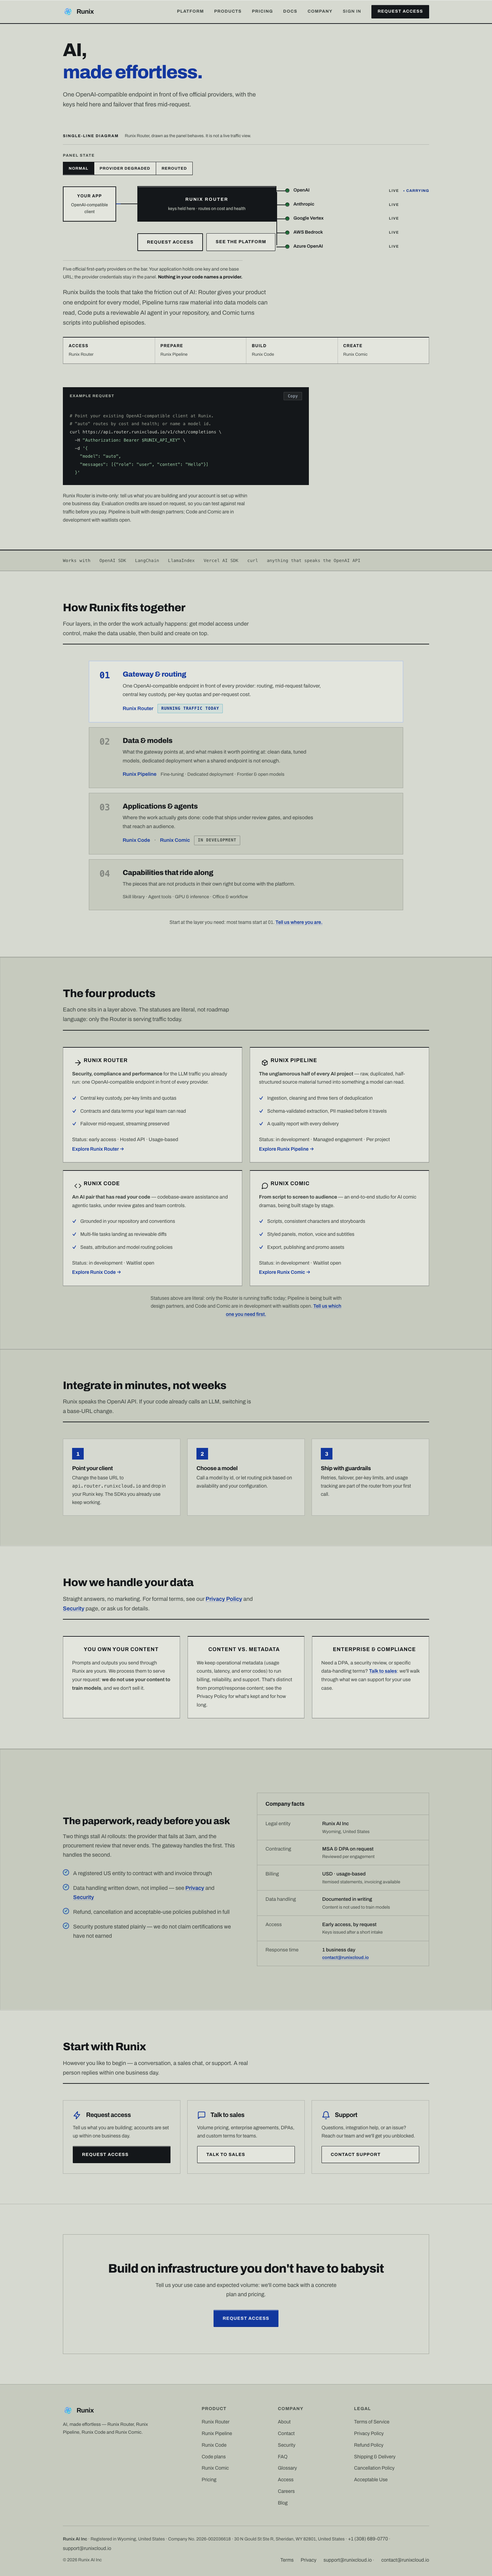
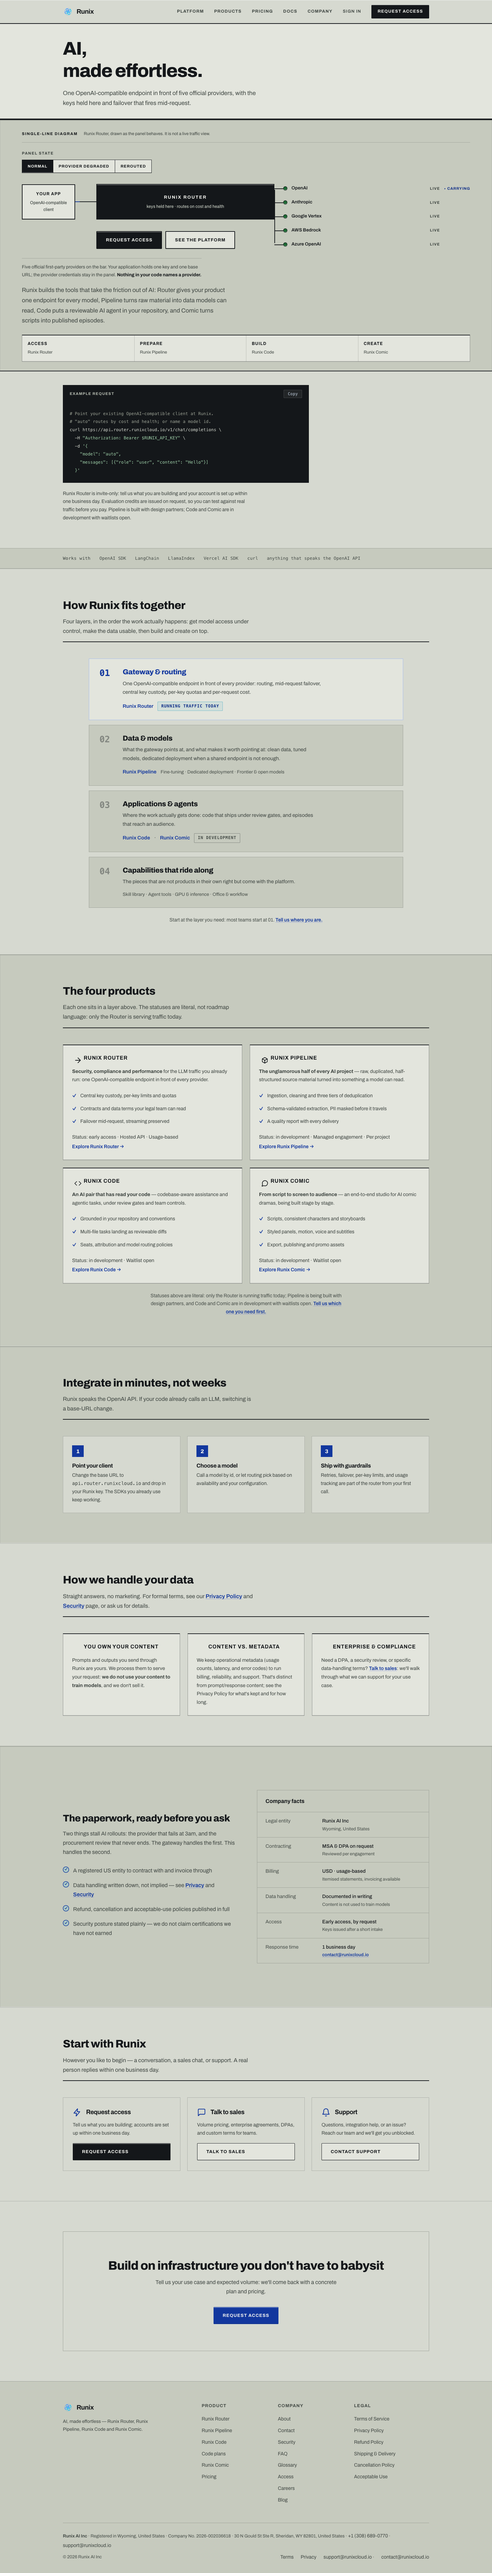
fix: the hero overlay was painting over the panel rail
The rail and the recessed bay had their backgrounds and their engraved
edges in the stylesheet, and neither reached the screen: .hero::before
is absolutely positioned with inset 0, so it painted above every static
child of the hero, including the rail. The overlay predates the rail and
its job (a flat ground and a bottom bar) is now done by the rail and the
bay themselves, so it is gone. Verified by sampling painted pixels rather
than computed style, which is what hid this: computed style reported the
rail's own background all along.

diff --git a/assets/style.css b/assets/style.css
@@ -125,7 +125,7 @@ h1 + .badge, h3 + .badge { margin: 14px 0 0; }
    word through a stop that measures 3.4:1 at the cyan end. One solid indigo
    at 5.59:1 carries the same emphasis and survives selection, high-contrast
    mode, and print, none of which render clipped backgrounds. */
-.grad-text { color: var(--indigo); }
+.grad-text { color: var(--ink); }
 
 /* ---------- Header ---------- */
 .site-header {
@@ -164,14 +164,6 @@ h1 + .badge, h3 + .badge { margin: 14px 0 0; }
 
 /* ---------- Hero ---------- */
 .hero { position: relative; padding: 110px 0 90px; overflow: hidden; }
-.hero::before {
-  content: ""; position: absolute; inset: 0; pointer-events: none;
-  /* The panel's own face: a flat enamel ground, a hairline of light along the
-     top rail, and the machined edge below it. */
-  background: var(--enamel);
-  border-bottom: var(--bar) solid var(--engrave);
-  box-shadow: var(--bevel);
-}
 .hero .container { position: relative; }
 .hero h1 { font-size: 58px; font-weight: 800; max-width: 780px; }
 .hero .sub { margin-top: 18px; font-size: 17.5px; color: var(--ink-2); max-width: 620px; }
@@ -701,7 +693,7 @@ main .doc-next a { color: var(--indigo); font-weight: 500; }
   background: var(--bg-alt); border: 1px solid var(--line); border-radius: 0; padding: 1px 6px;
 }
 .article pre {
-  background: #05080f; color: #c9d1d9; border: 1px solid var(--line); border-radius: 0; padding: 18px 20px;
+  background: var(--engrave); color: #d5d9cf; border: 1px solid var(--line); border-radius: 0; padding: 18px 20px;
   overflow-x: auto; font-family: "SF Mono", Menlo, Consolas, monospace;
   font-size: 13.5px; line-height: 1.8; margin: 18px 0;
 }
@@ -845,7 +837,7 @@ a:focus-visible, button:focus-visible, .btn:focus-visible {
   background: var(--line); border: 1px solid var(--line-2); border-top: none;
   border-radius: 0 0 var(--radius) var(--radius); overflow: hidden;
 }
-.hero-metrics div { background: #05080f; padding: 13px 16px; }
+.hero-metrics div { background: var(--engrave); padding: 13px 16px; }
 .hero-metrics b { display: block; font-family: var(--mono); font-size: 16px; color: #e9edf6; }
 .hero-metrics span { font-size: 12px; color: #8b95a9; letter-spacing: 0.05em; text-transform: uppercase; }
 
@@ -1405,15 +1397,25 @@ main > .section:first-child { padding-top: 64px; }
 ::-webkit-scrollbar-thumb:hover { background: var(--engrave); }
 
 /* ---- The hero rail ------------------------------------------------------ */
-.hero.panel { padding: 44px 0 0; }
-.hero.panel .rail { max-width: 680px; }
+.hero.panel { padding: 0 0 0; }
+/* The top rail: the headline is cut into the panel's own face, closed by the
+   machined edge the board hangs from. */
+.panel-rail {
+  position: relative;
+  background: var(--enamel-hi);
+  border-bottom: var(--bar) solid var(--engrave);
+  box-shadow: var(--bevel);
+  padding: 40px 0 30px;
+}
+.hero.panel .rail { max-width: 720px; }
 .hero.panel h1 { font-size: clamp(38px, 5vw, 54px); font-weight: 800; letter-spacing: -0.035em; }
 .hero.panel .sub { max-width: 60ch; }
 .hero.panel .actions { margin-top: 26px; }
 
 /* ---- The board ---------------------------------------------------------- */
+.mimic-wrap .container { max-width: 1360px; }
 .mimic-wrap {
-  margin-top: 34px;
+  margin-top: 0;
   background: var(--enamel-lo);
   border-top: var(--bar) solid var(--engrave);
   border-bottom: var(--bar) solid var(--engrave);
@@ -1448,10 +1450,15 @@ main > .section:first-child { padding-top: 64px; }
   display: flex; flex-wrap: wrap; gap: 10px; padding-top: 18px;
 }
 .btn-switch {
+  background: var(--engrave); color: var(--on-accent);
+  border: var(--bar) solid var(--engrave); box-shadow: var(--bevel);
+}
+.btn-switch:hover { background: #24282b; box-shadow: var(--bevel-in); }
+.btn-switch-2 {
   background: var(--enamel-hi); color: var(--ink);
   border: var(--bar) solid var(--engrave); box-shadow: var(--bevel);
 }
-.btn-switch:hover { background: var(--enamel); box-shadow: var(--bevel-in); }
+.btn-switch-2:hover { background: var(--enamel); box-shadow: var(--bevel-in); }
 .rail-lead { font-size: 17px; }
 .board-lead { margin: 26px 0 0; max-width: 68ch; font-size: 15px; }
 .mimic-caller, .mimic-bar {
@@ -1619,9 +1626,9 @@ table, .plan-price, .index-plate, .mimic-feeders { font-variant-numeric: tabular
   .mimic-caller { text-align: left; }
   .mimic-feeders { padding: 0 0 0 26px; margin-top: 30px; position: relative; }
   .mimic-feeders::before { top: -30px; bottom: 14px; left: 26px; }
-  .mimic-feeders li { grid-template-columns: 12px 1fr auto; row-gap: 2px; padding-left: 18px; }
+  .mimic-feeders li { grid-template-columns: 12px 1fr auto; row-gap: 2px; padding-left: 18px; min-height: 62px; align-content: start; }
   .mimic-feeders li::before { left: -8px; width: 18px; top: 20px; display: block; }
-  .mimic-feeders .route { grid-column: 2 / -1; justify-self: start; }
+  .mimic-feeders .route { grid-column: 2 / -1; justify-self: start; visibility: hidden; }
   .mimic-actions { padding-top: 22px; }
   .mimic-steps { display: grid; grid-template-columns: 1fr; }
   .mimic-steps label { border-right-width: 1px; border-bottom-width: 0; }

diff --git a/router.html b/router.html
@@ -139,8 +139,7 @@
   <div class="container">
     <h1><span class="line">One compliant endpoint</span>
 <span class="line">for every model</span></h1>
-    <span class="badge">Runix Router · Early access</span>
-    <p>The control plane between your product and the model providers: central key custody, written data terms, and failover that fires mid-request — behind one OpenAI-compatible API.</p>
+    <p>Runix Router, in early access. The control plane between your product and the model providers: central key custody, written data terms, and failover that fires mid-request — behind one OpenAI-compatible API.</p>
     <div class="actions" style="margin-top:28px;display:flex;gap:14px;flex-wrap:wrap;">
       <a class="btn btn-primary" href="/about#contact">Request access</a>
       <a class="btn btn-ghost" href="/plans">See how billing works</a>

diff --git a/index.html b/index.html
@@ -107,12 +107,14 @@
 
 <main id="main">
 <section class="hero panel">
+  <div class="panel-rail">
   <div class="container">
     <div class="rail">
       <h1><span class="line">AI,</span>
 <span class="line"><span class="grad-text">made effortless.</span></span></h1>
       <p class="sub rail-lead">One OpenAI-compatible endpoint in front of five official providers, with the keys held here and failover that fires mid-request.</p>
     </div>
+  </div>
   </div>
 
   <div class="mimic-wrap">
@@ -172,7 +174,7 @@
           </ul>
           <div class="mimic-actions">
             <a class="btn btn-switch" href="/about#contact">Request access</a>
-            <a class="btn btn-ghost" href="#platform">See the platform</a>
+            <a class="btn btn-switch-2" href="#platform">See the platform</a>
           </div>
         </div>
 

diff --git a/.impeccable/surfaces/index-html.md b/.impeccable/surfaces/index-html.md
@@ -9,7 +9,7 @@ related_targets: ["router.html","plans.html","about.html","reliability.html"]
 
 THESIS: A gateway is switchgear. This surface is the mimic panel that shows the live route, not a landing page describing routing. It refuses the category's dark-neon developer hero and its white-minimal opposite.
 
-OWN-WORLD: Control-room enamel panel. Warm grey enamel ground, engraved black single-line diagram bars at true weight, lamp colour strictly as state (green live, amber degraded, red out), engraved lozenge labels, tabular plates, hairline bezels. No rounded cards, no gradient, no glow, no glass.
+OWN-WORLD: Control-room enamel panel. Sage-grey machine enamel ground (#d6d9d0 — real panel enamel reads green-grey, and it moves the surface away from the warm-cream rendition every model reaches for), engraved black single-line diagram bars at true weight, lamp colour strictly as state (green live, amber degraded, red out), engraved lozenge labels, tabular plates, hairline bezels. No rounded cards, no gradient, no glow, no glass.
 
 STORY: The visitor traces their own traffic through one endpoint to five official providers, sees what happens when one fails, learns credentials live in the panel, and requests access.
 
